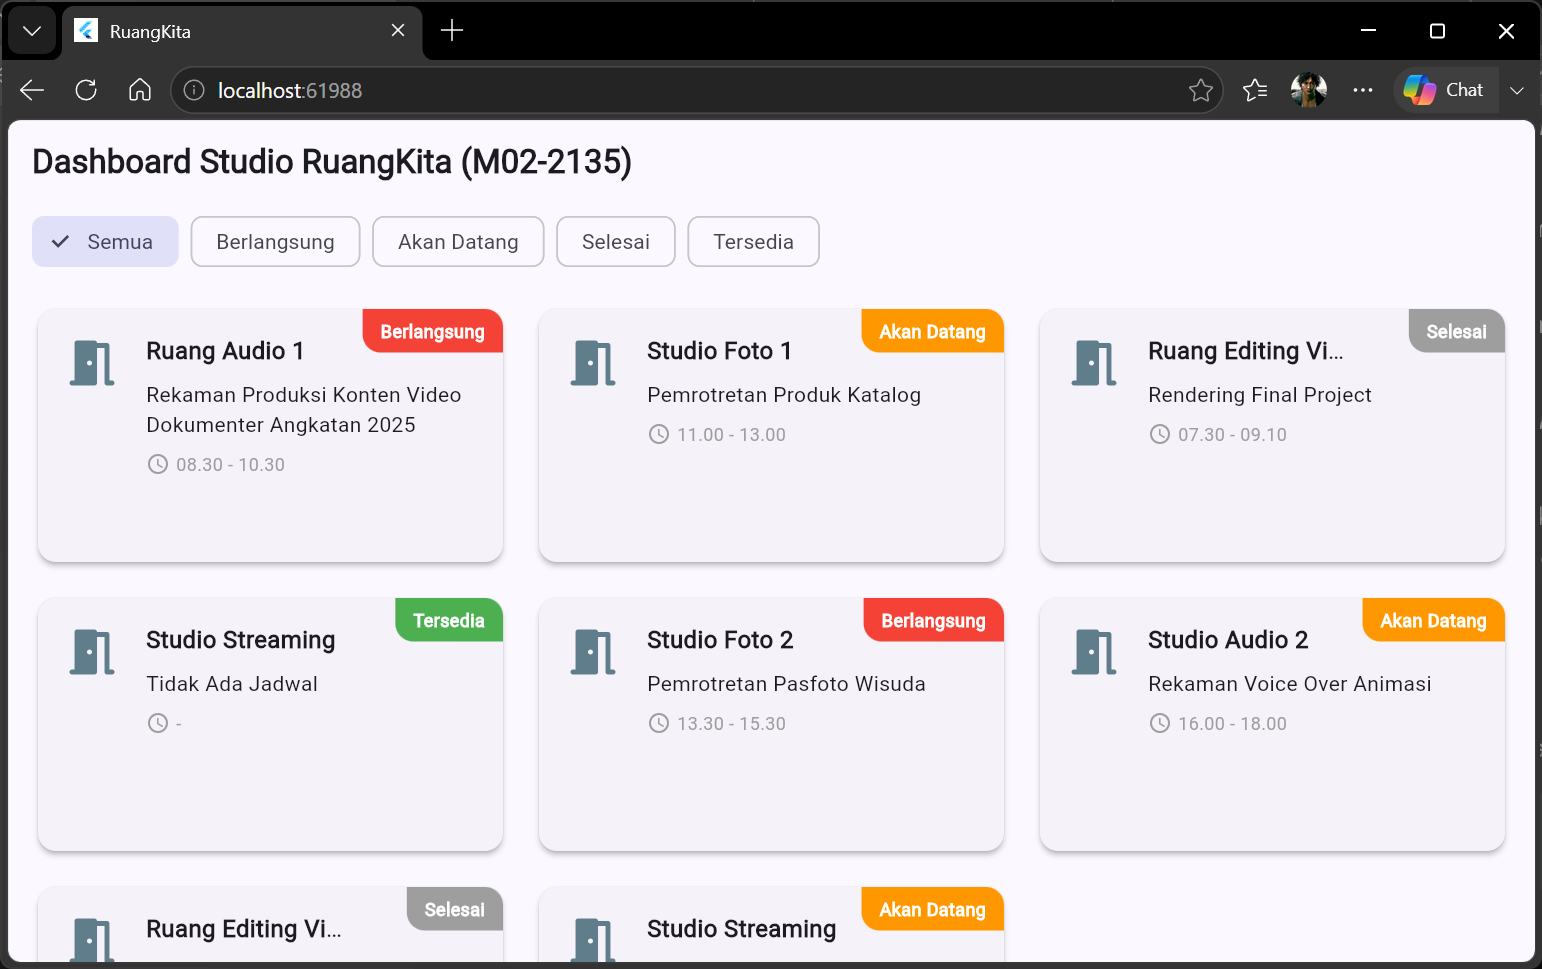
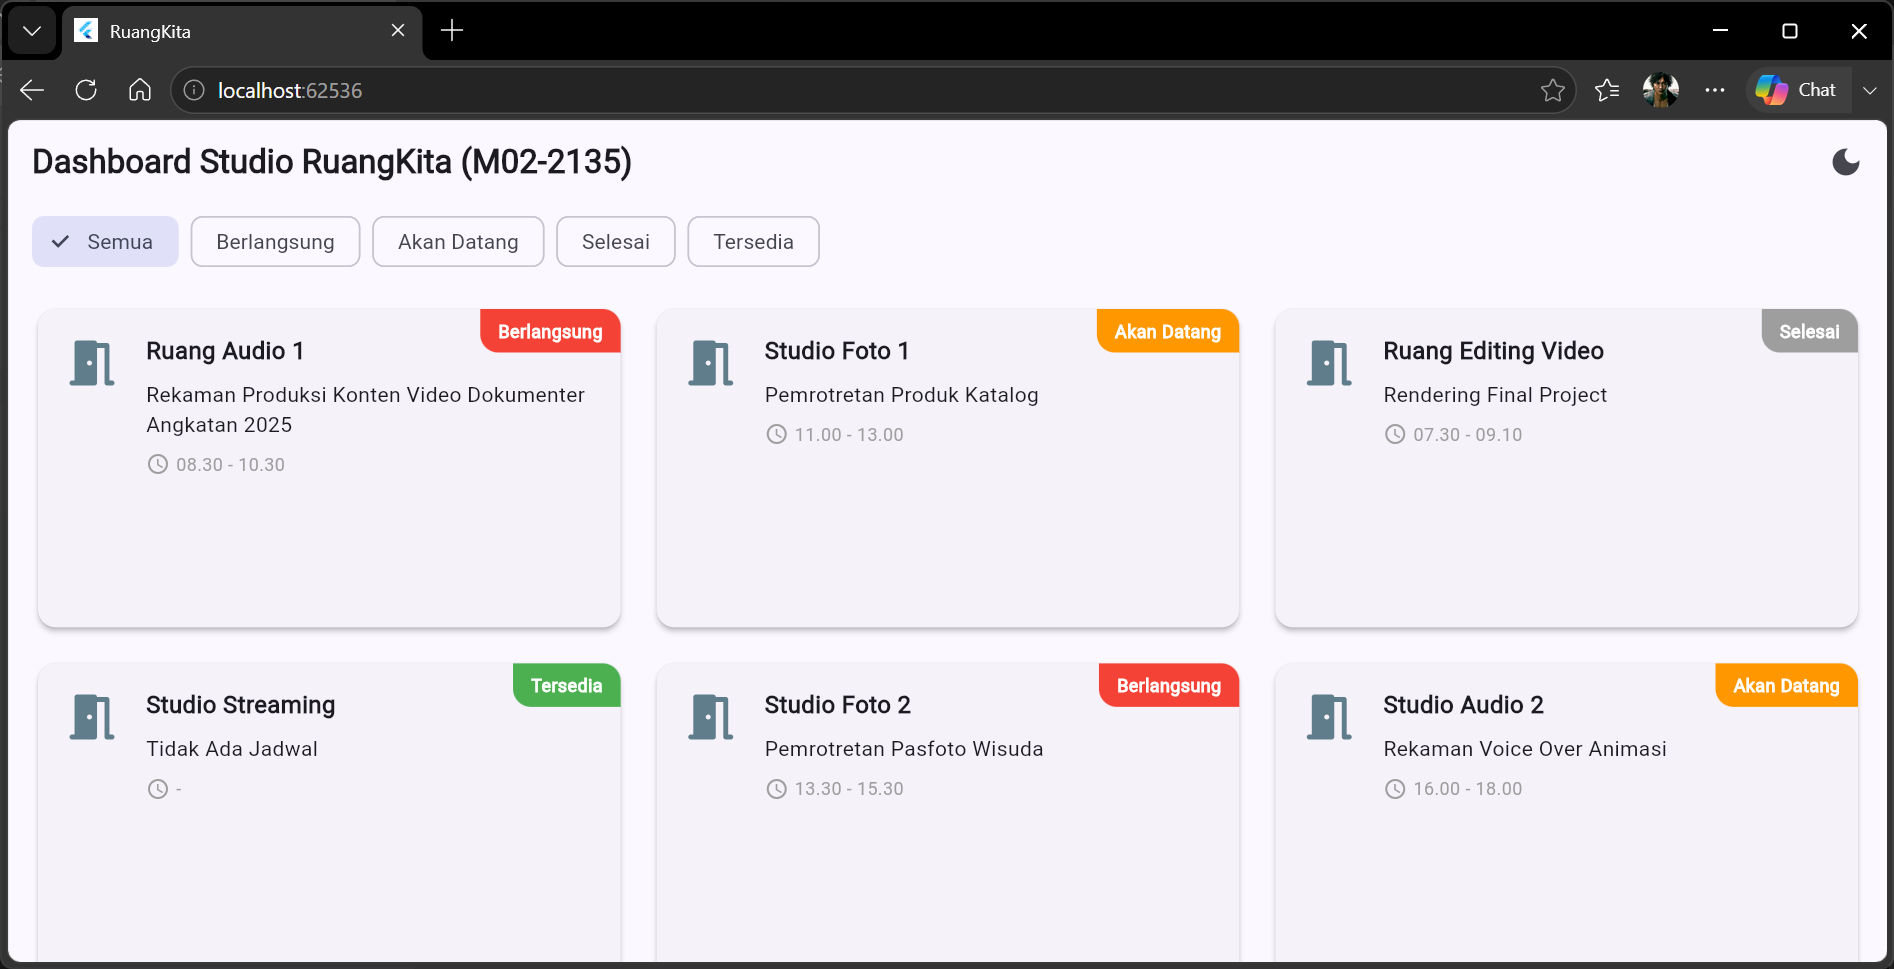
feat(m02): add manual theme toggle in appbar

diff --git a/lib/main.dart b/lib/main.dart
@@ -6,8 +6,20 @@ void main() {
   runApp(const MyApp());
 }
 
-class MyApp extends StatelessWidget {
+class MyApp extends StatefulWidget {
   const MyApp({super.key});
+
+  @override
+  State<MyApp> createState() => _MyAppState();
+}
+
+class _MyAppState extends State<MyApp> {
+  bool _isDarkMode = false;
+  void _toggleTheme() {
+    setState(() {
+      _isDarkMode = !_isDarkMode;
+    });
+  }
 
   // This widget is the root of your application.
   @override
@@ -18,7 +30,7 @@ class MyApp extends StatelessWidget {
 
       theme: ThemeData(
         useMaterial3: true,
-        colorScheme: .fromSeed(
+        colorScheme: ColorScheme.fromSeed(
           seedColor: Colors.indigo,
           brightness: Brightness.light,
         ),
@@ -32,8 +44,11 @@ class MyApp extends StatelessWidget {
         ),
       ),
 
-      themeMode: ThemeMode.system,
-      home: const RuangPraktikum(),
+      themeMode: _isDarkMode ? ThemeMode.dark : ThemeMode.light,
+      home: RuangPraktikum(
+        isDarkMode: _isDarkMode,
+        onToggleTheme: _toggleTheme,
+      ),
     );
   }
 }

diff --git a/lib/modul02/studi_kasus/ruang_praktikum.dart b/lib/modul02/studi_kasus/ruang_praktikum.dart
@@ -3,7 +3,14 @@ import 'package:flutter/material.dart';
 import '../../models/room_session.dart';
 
 class RuangPraktikum extends StatefulWidget {
-  const RuangPraktikum({super.key});
+  final bool isDarkMode;
+  final VoidCallback onToggleTheme;
+
+  const RuangPraktikum({
+    super.key,
+    required this.isDarkMode,
+    required this.onToggleTheme,
+  });
 
   @override
   State<RuangPraktikum> createState() => _RuangPraktikumState();
@@ -40,6 +47,14 @@ class _RuangPraktikumState extends State<RuangPraktikum> {
           'Dashboard Studio RuangKita (M02-2135)',
           style: TextStyle(fontWeight: FontWeight.bold),
         ),
+
+        actions: [
+          IconButton(
+            onPressed: widget.onToggleTheme,
+            icon: Icon(widget.isDarkMode ? Icons.light_mode : Icons.dark_mode),
+          ),
+          const SizedBox(width: 8),
+        ],
       ),
       body: Column(
         crossAxisAlignment: CrossAxisAlignment.stretch,
